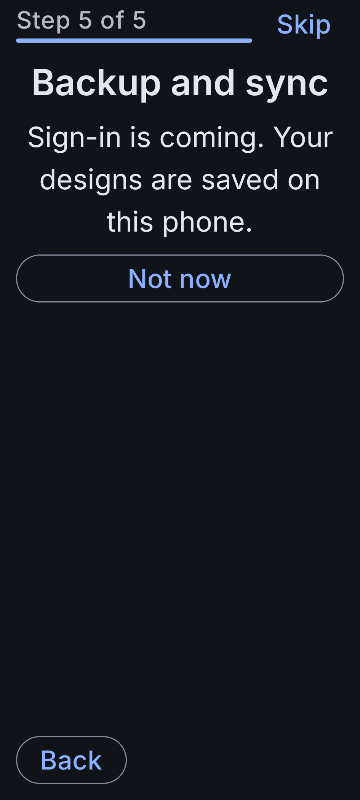
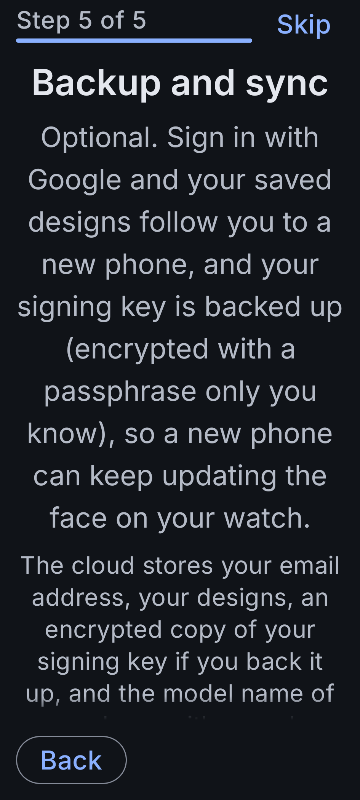
feat(phone): the backup page drops its long introduction once signed in; real-app first-run tests reset the accounts flag like a fresh process; pictures of the page in four steps (64 onboarding pictures), the onboarding picture script runs with the accounts test runner; onboarding docs say the backu

Changed region(s): [[0.0306, 0.1562, 0.9472, 0.6562], [0.0611, 0.6875, 0.9472, 0.9062], [0.4583, 0.5312, 0.4889, 0.5625]]

diff --git a/phone/src/main/kotlin/com/seyedjafari/analogplus/phone/ui/account/BackupPage.kt b/phone/src/main/kotlin/com/seyedjafari/analogplus/phone/ui/account/BackupPage.kt
@@ -43,12 +43,14 @@ fun BackupPage(onDone: () -> Unit) {
     )
 
     PageLayout(stringResource(OnboardingText.BACKUP_TITLE)) {
-        Text(
-            stringResource(BackupPageText.INTRO), style = MaterialTheme.typography.bodyLarge,
-            color = MaterialTheme.colorScheme.onSurfaceVariant, textAlign = TextAlign.Center,
-        )
         val account = ui.account as? AccountState.SignedIn
-        if (account != null) {
+        // the explanation is for before signing in; afterwards the room goes to the step itself (at large text it would push the button off the screen)
+        if (account == null) {
+            Text(
+                stringResource(BackupPageText.INTRO), style = MaterialTheme.typography.bodyLarge,
+                color = MaterialTheme.colorScheme.onSurfaceVariant, textAlign = TextAlign.Center,
+            )
+        } else {
             Text(uiTextResource(signedInAsText(account.email)), style = MaterialTheme.typography.bodyMedium, modifier = Modifier.testTag(AccountTags.EMAIL))
             Pill(backupPill(ui.backup), AccountTags.BACKUP_STATUS)
         }

diff --git a/phone/src/androidTest/kotlin/com/seyedjafari/analogplus/phone/OnboardingFirstRunTest.kt b/phone/src/androidTest/kotlin/com/seyedjafari/analogplus/phone/OnboardingFirstRunTest.kt
@@ -40,6 +40,8 @@ class OnboardingFirstRunTest {
     private var scenario: ActivityScenario<MainActivity>? = null
 
     @Before fun emptyTheStore() {
+        // a fresh process has the default; without this the flag a test before this one left behind would hide a controller that was built too early
+        OnboardingConfig.accountsAvailable = false
         snapshot.backUp()
         syncSnapshot.backUp()
         FirebaseTestSession.signOut(context)

diff --git a/phone/src/androidTest/kotlin/com/seyedjafari/analogplus/phone/OnboardingRealActivityTest.kt b/phone/src/androidTest/kotlin/com/seyedjafari/analogplus/phone/OnboardingRealActivityTest.kt
@@ -52,6 +52,7 @@ class OnboardingRealActivityTest {
     private val neon = Templates.all.first { it.name == "Neon" }
 
     @Before fun emptyTheStore() {
+        OnboardingConfig.accountsAvailable = false      // a fresh process: the app sets it before it builds the controller (see OnboardingFirstRunTest)
         awaitNoMainActivities(); snapshot.backUp(); syncSnapshot.backUp()
         FirebaseTestSession.signOut(context)
     }

diff --git a/docs/poc/README.md b/docs/poc/README.md
@@ -53,14 +53,14 @@ into Share and loaded with **Load design** replaces it at once. A tapped link sh
 
 Screenshots of every destination (light and dark, font scale 1.0 and 2.0) are in `docs/poc/screens/`
 (`<destination>-<theme>-<scale>.png`). Onboarding is in `onboarding-<page>-<theme>-<portrait|landscape>[-2x].png` (rendered
-by the instrumented test `OnboardingScreenshotTest` in a 360x800 / 800x360 dp window with animations off, 40 pictures; re-take them all with
+by the instrumented test `OnboardingScreenshotTest` in a 360x800 / 800x360 dp window with animations off, 64 pictures; re-take them all with
 `scripts/pull_onboarding_screens.sh`, which installs the app, runs that class (it is skipped in the normal suite, only a run with the runner argument `screenshots=true` renders them) and copies the pictures here; they show five steps
-because the test turns the fifth page on, and the pair page shows a ready watch) plus real-app captures on the emulator: `onboarding-pair-nowatch-*` (no watch, "Could not
+because the test turns the fifth page on, which is the real backup page in four steps: `onboarding-backup-*` signed out, `-set-passphrase-*`, `-restore-*`, `-done-*`; and the pair page shows a ready watch) plus real-app captures on the emulator: `onboarding-pair-nowatch-*` (no watch, "Could not
 check"; the light landscape ones show Check again in view and, at font scale 2, the fade where the page continues) and `onboarding-welcome-real-dark-landscape.png`.
 
 **First run (onboarding).** A new install shows a short paged flow before the app: welcome, connect your watch, the
-one-time permission explained and a starting template. A fifth page, optional sign-in, appears only once accounts ship
-(until then the flow is four pages: "Step 1 of 4"). There is no swiping: move with the primary button (Get started /
+one-time permission explained and a starting template. A fifth page, optional sign-in and backup of the signing key (the accounts work), appears when the build has accounts (a debug build always does; a build without a Firebase project keeps the
+four pages: "Step 1 of 4"). There is no swiping: move with the primary button (Get started /
 Continue), **Back** or **Skip**, and the system Back button goes to the previous page (on the first page of a first run it leaves the
 app; on the first page of a run started from Account's "Run setup again" it counts as Skip and returns to the app at Design). Skip is on every page and never touches the design. Only the visible page is composed, so the pairing check does
 not start until you reach the connect page. Closing the app mid-way (or process death) resumes on the same page; rotating

diff --git a/docs/superpowers/specs/2026-10-09-onboarding-design.md b/docs/superpowers/specs/2026-10-09-onboarding-design.md
@@ -18,8 +18,8 @@ onboarding never blocks an existing user and never shows twice unless asked.
 Five pages in a paged flow with a progress indicator ("Step N of M"), Skip on every page, Back works. There is no swipe:
 the user moves with Back, Skip and the primary button only (and the system Back button), and pages change with a
 shared-axis slide (a plain change when animations are off). System Back goes one page back; on the first page a first run leaves the app, while a run restarted from Account's "Run setup again" counts Back as Skip and returns to the app (the controller keeps how the run started, `OnboardingOrigin`, in memory only: after process death a run is a first run). Only the visible page is composed, so the pairing check
-starts when the connect page is reached and a neighbouring page never plays its animation. Until accounts ship the flow
-has four pages (the fifth, backup, is hidden).
+starts when the connect page is reached and a neighbouring page never plays its animation. A build without accounts (no Firebase
+project) has four pages (the fifth, backup, is hidden); the backup page ships with accounts (the accounts-sync plan, task 15) and is the fifth page of every build that has them.
 
 1. **Welcome.** Lottie loop: a watch face morphing between designs (colours, ring layout, complication slots).
    Headline and one line. Primary: Get started.
